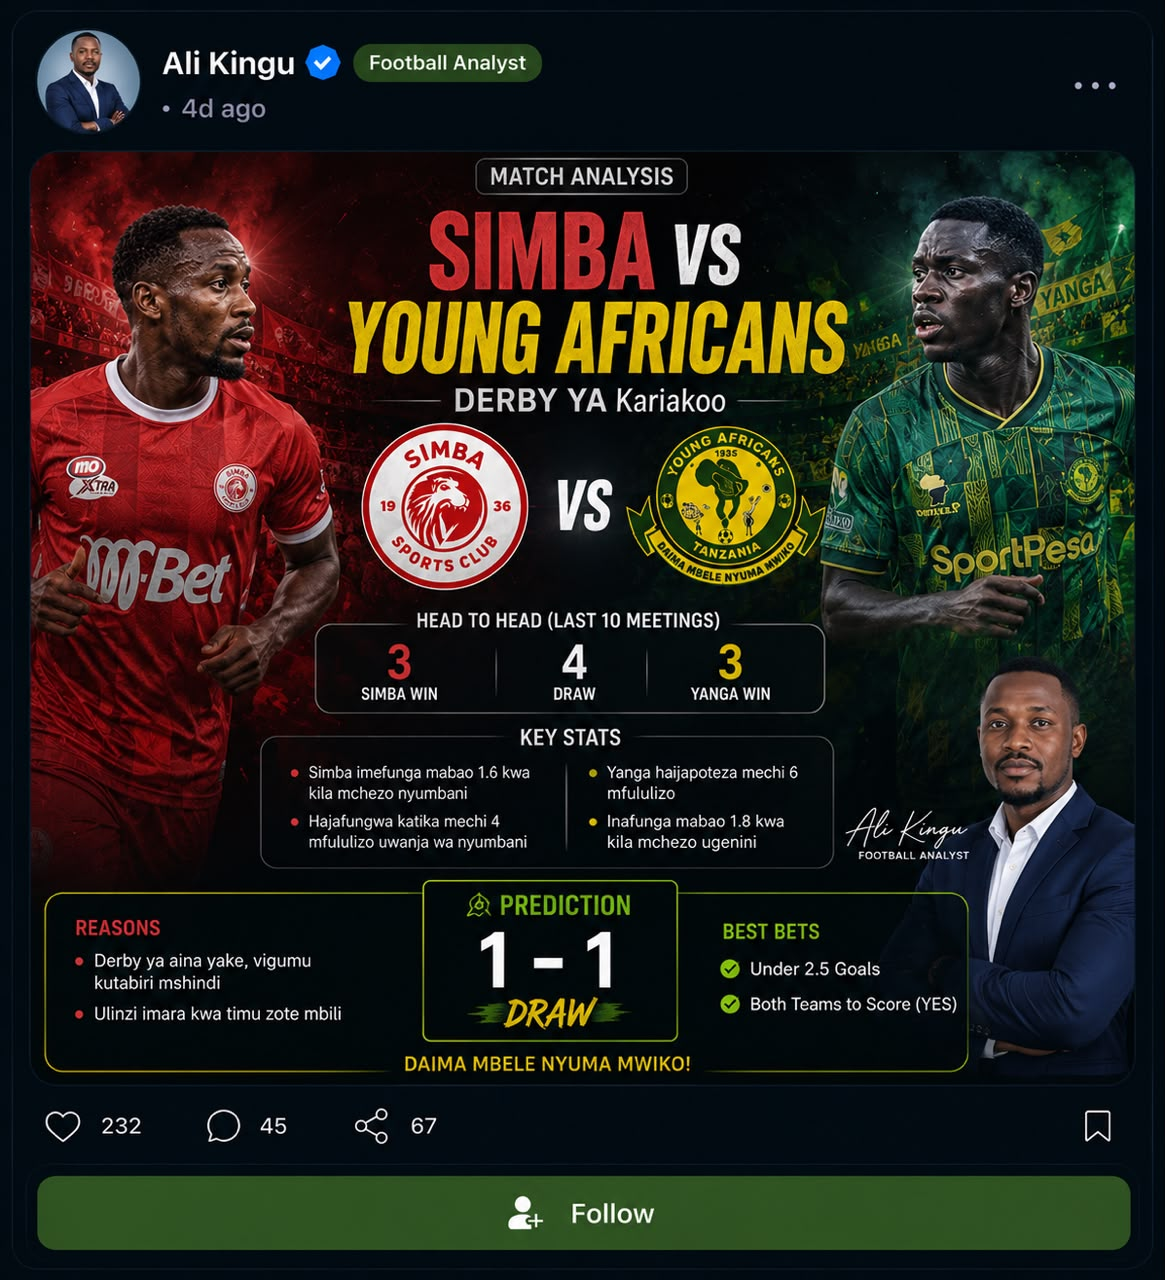
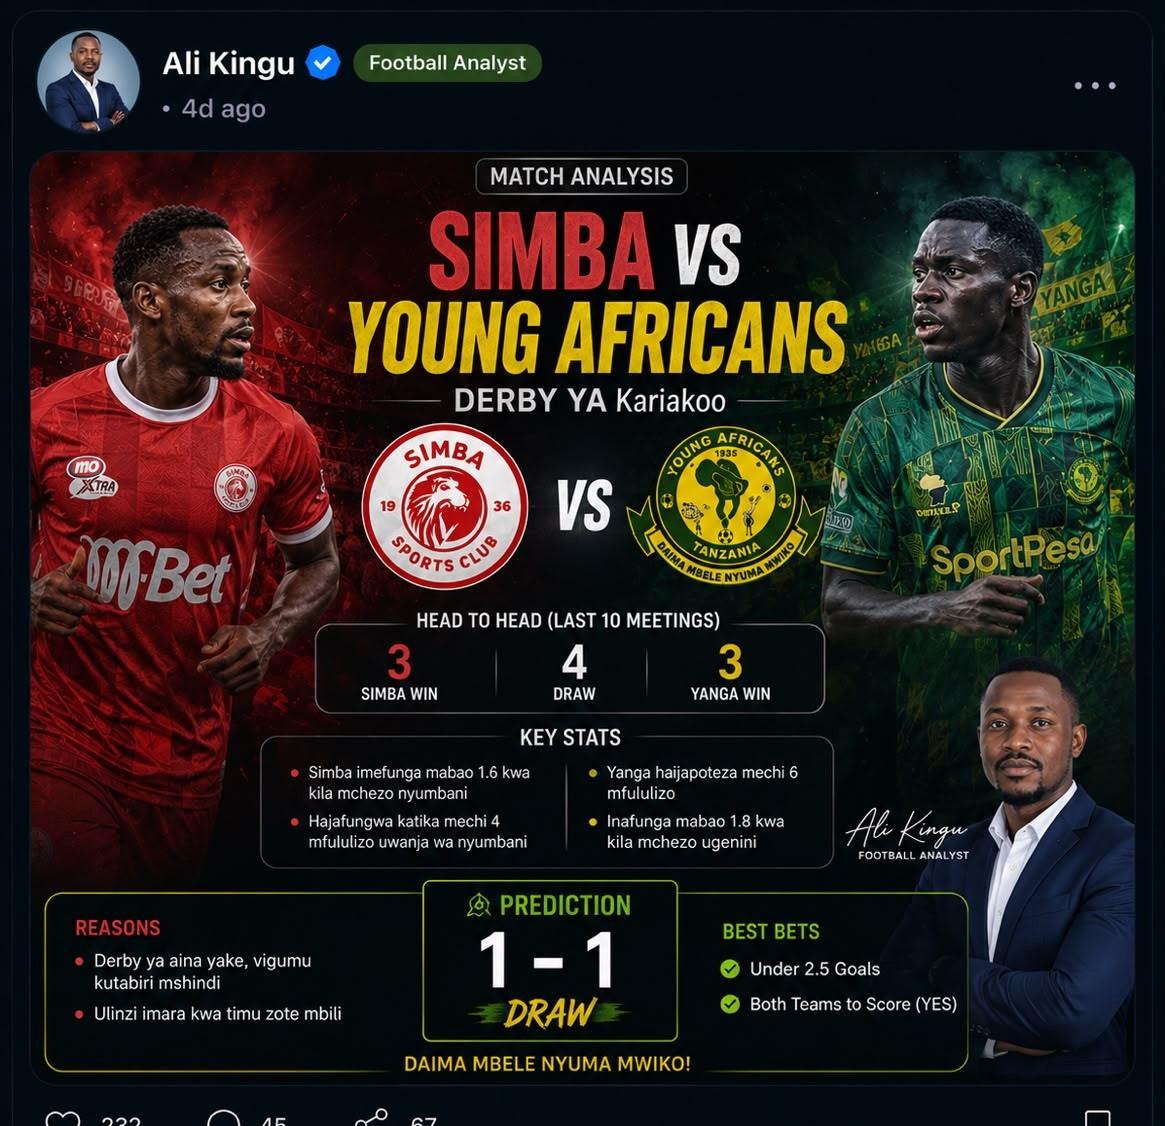
fix: crop CTA off seed posters; fan/follow updates counts and opens profile

diff --git a/WebApp/src/components/home/FeedCard.tsx b/WebApp/src/components/home/FeedCard.tsx
@@ -68,23 +68,70 @@ function resolveMediaUrl(url: string): string {
 }
 
 function PostCtas({ item, isAuthenticated, onRequireAuth }: { item: ApiPost; isAuthenticated: boolean; onRequireAuth: () => void }) {
+  const setViewingUser = useUIStore((s) => s.setViewingUser);
   const role = String(item.user?.role || '').toLowerCase();
   const type = String(item.postType || '').toLowerCase();
+  const [fan, setFan] = useState(false);
+  const [follow, setFollow] = useState(false);
+
+  function openProfile() {
+    const u = item.user;
+    if (!u) return;
+    setViewingUser({
+      id: u.id,
+      name: u.name,
+      handle: u.handle,
+      avatar: u.avatarUrl || u.avatarInitials,
+      avatarUrl: u.avatarUrl,
+      verified: u.isVerified,
+      coverGradient: 'from-emerald-600 to-emerald-900',
+      bio: u.bio || '',
+      role: u.role,
+      location: u.location || '',
+      joined: '',
+      followers: u.followerCount || 0,
+      following: u.followingCount || 0,
+      posts: u.postCount || 0,
+      isFollowing: follow,
+    });
+  }
+
   async function act(action: string) {
     if (!isAuthenticated) { onRequireAuth(); return; }
     if (action === 'fan' || action === 'follow') {
-      await apiFetch('/api/follows', {
+      const res = await apiFetch('/api/follows', {
         method: 'POST',
         headers: { 'Content-Type': 'application/json' },
         body: JSON.stringify({ targetUserId: item.userId, action }),
       });
+      if (res.ok) {
+        const data = await res.json();
+        setFollow(!!data.following);
+        setFan(!!data.isFan);
+        openProfile();
+      }
       return;
     }
+    if (action === 'watch' || action === 'buy') {
+      openProfile();
+    }
   }
+
+  const fanFollow = (
+    <div className="mb-3 flex gap-2">
+      <button onClick={() => act('fan')} className="flex-1 rounded-xl border border-surface-border py-2.5 text-sm font-bold text-white">
+        {fan ? 'Fan' : 'Become Fan'}
+      </button>
+      <button onClick={() => act('follow')} className="flex-1 rounded-xl bg-blue-600 py-2.5 text-sm font-bold text-white">
+        {follow ? 'Following' : 'Follow'}
+      </button>
+    </div>
+  );
+
   if (type === 'shop' || role === 'business') {
     return (
-      <div className="mb-3 flex gap-2">
-        <button onClick={() => act('buy')} className="flex-1 rounded-xl bg-gold py-2.5 text-sm font-bold text-black">Buy Now</button>
+      <div className="mb-3">
+        <button onClick={() => act('buy')} className="w-full rounded-xl bg-gold py-2.5 text-sm font-bold text-black">Buy Now</button>
       </div>
     );
   }
@@ -96,26 +143,13 @@ function PostCtas({ item, isAuthenticated, onRequireAuth }: { item: ApiPost; isA
       </div>
     );
   }
-  if (type === 'official' || role === 'official') {
-    return (
-      <div className="mb-3 flex gap-2">
-        <button onClick={() => act('fan')} className="flex-1 rounded-xl border border-surface-border py-2.5 text-sm font-bold text-white">Become Fan</button>
-        <button onClick={() => act('follow')} className="flex-1 rounded-xl bg-blue-600 py-2.5 text-sm font-bold text-white">Follow</button>
-      </div>
-    );
-  }
-  if (role === 'team' || role === 'player' || role === 'coach') {
-    return (
-      <div className="mb-3 flex gap-2">
-        <button onClick={() => act('fan')} className="flex-1 rounded-xl border border-surface-border py-2.5 text-sm font-bold text-white">Become Fan</button>
-        <button onClick={() => act('follow')} className="flex-1 rounded-xl bg-blue-600 py-2.5 text-sm font-bold text-white">Follow</button>
-      </div>
-    );
-  }
+  if (['official','team','player','coach'].includes(role) || type === 'official') return fanFollow;
   if (role === 'analyst' || type === 'prediction') {
     return (
       <div className="mb-3">
-        <button onClick={() => act('follow')} className="w-full rounded-xl bg-emerald-600 py-2.5 text-sm font-bold text-white">Follow</button>
+        <button onClick={() => act('follow')} className="w-full rounded-xl bg-emerald-600 py-2.5 text-sm font-bold text-white">
+          {follow ? 'Following' : 'Follow'}
+        </button>
       </div>
     );
   }
